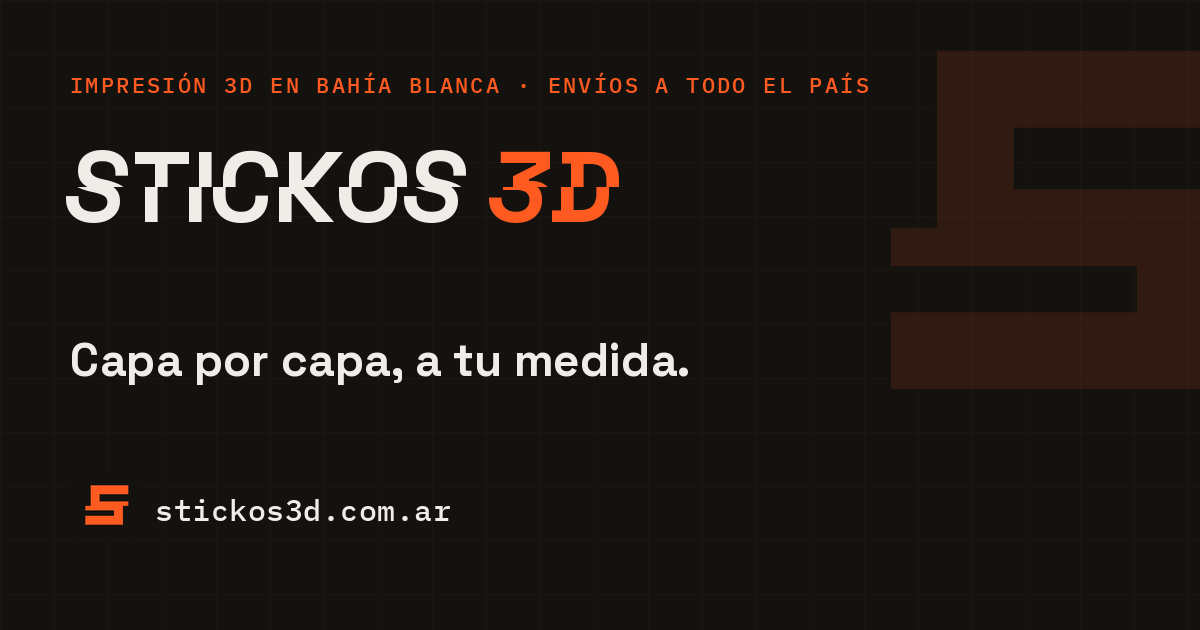
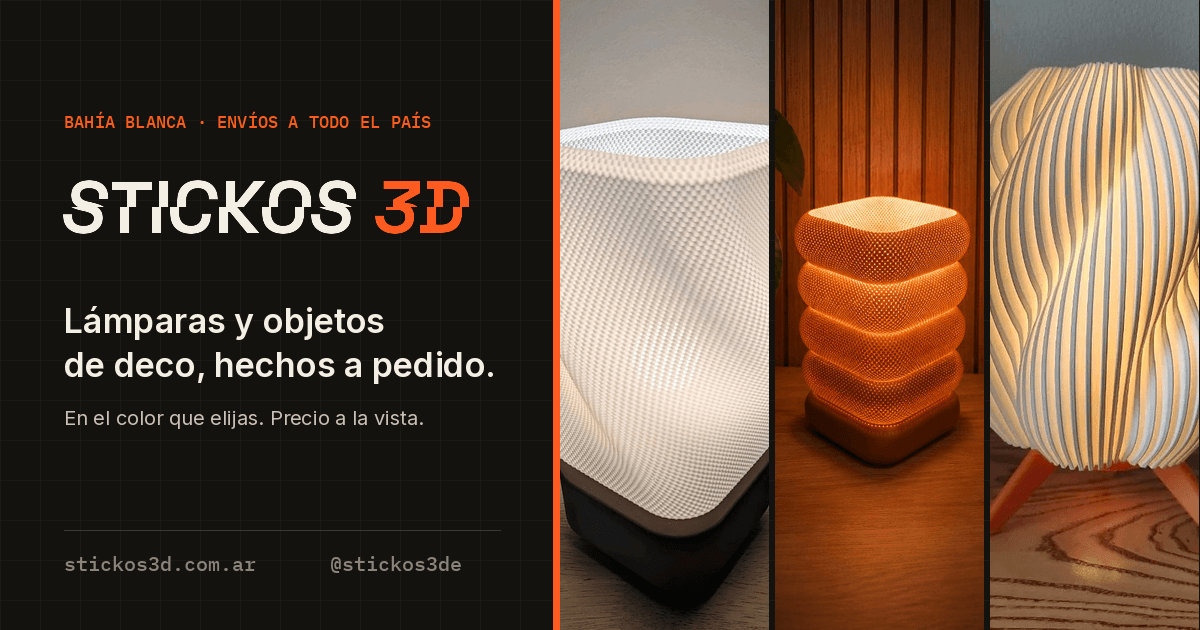
A2: og-image nueva con fotos de HUSO, FUELLE y KENDAI
Reemplaza la imagen de preview ("Capa por capa, a tu medida"). El
original pesaba 690 KB; va optimizada a 223 KB, mismo tamaño 1200x630,
porque WhatsApp suele no mostrar la preview con og:image por encima de
~600 KB. og:image lleva ?v=2 para que las redes no sigan mostrando la
versión vieja que tienen en caché.

Claude-Session: https://claude.ai/code/session_01MFohgqNH5VvwWMZPwtbHMV

diff --git a/index.html b/index.html
@@ -11,7 +11,7 @@
      para Google y es más largo de lo que entra en una tarjeta de preview. -->
 <meta property="og:title" content="STICKOS 3D — Impresión 3D en Bahía Blanca">
 <meta property="og:description" content="Lámparas y objetos de deco hechos a pedido, en el color que elijas. Precio a la vista, envíos a todo el país.">
-<meta property="og:image" content="https://stickos3d.com.ar/assets/og-image.png">
+<meta property="og:image" content="https://stickos3d.com.ar/assets/og-image.png?v=2">
 <meta property="og:image:width" content="1200">
 <meta property="og:image:height" content="630">
 <meta property="og:url" content="https://stickos3d.com.ar/">
